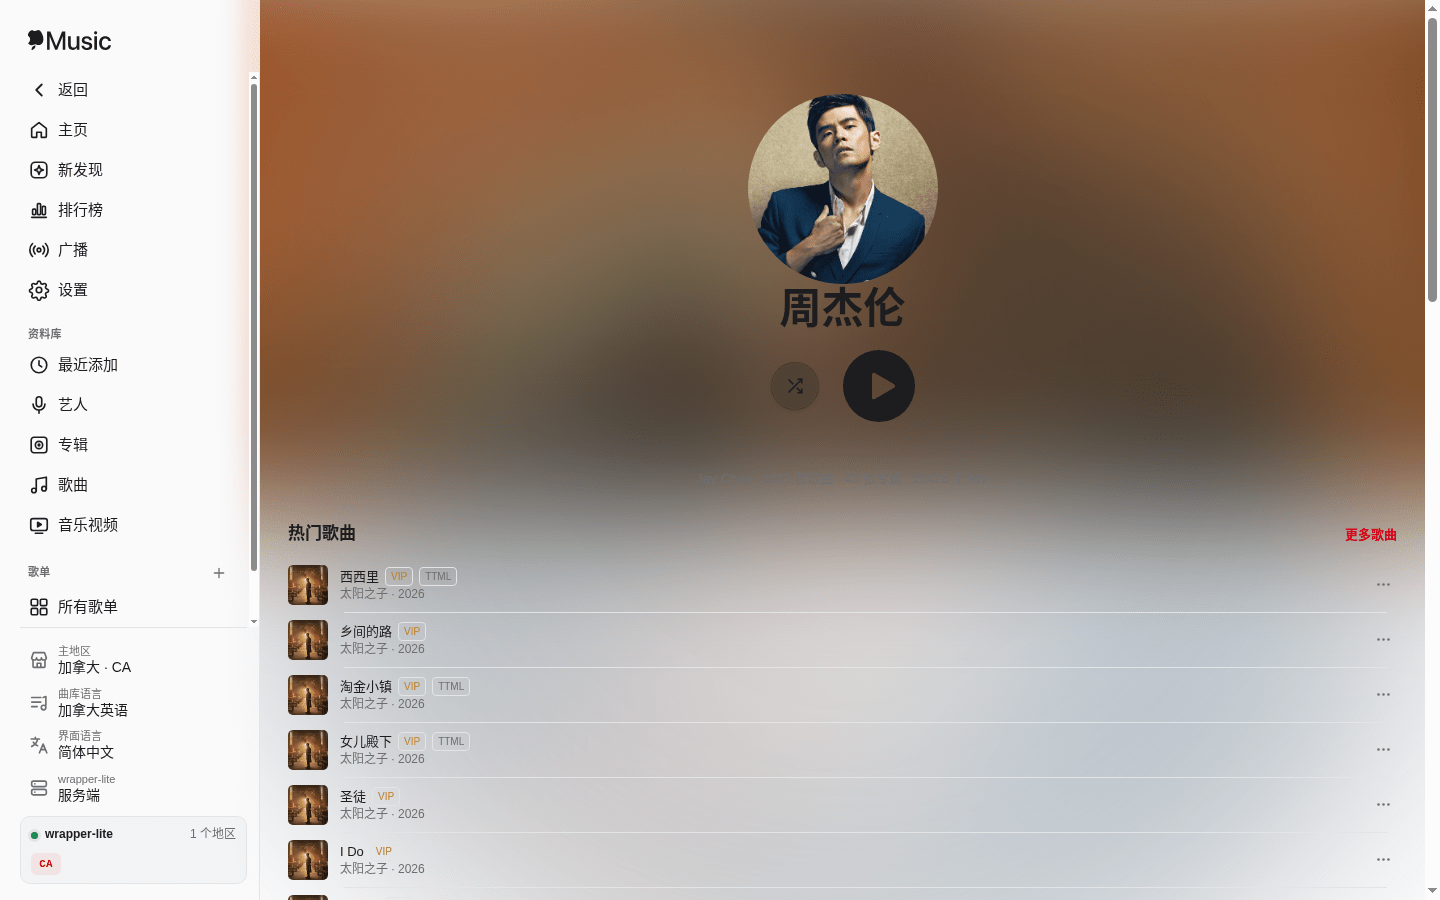
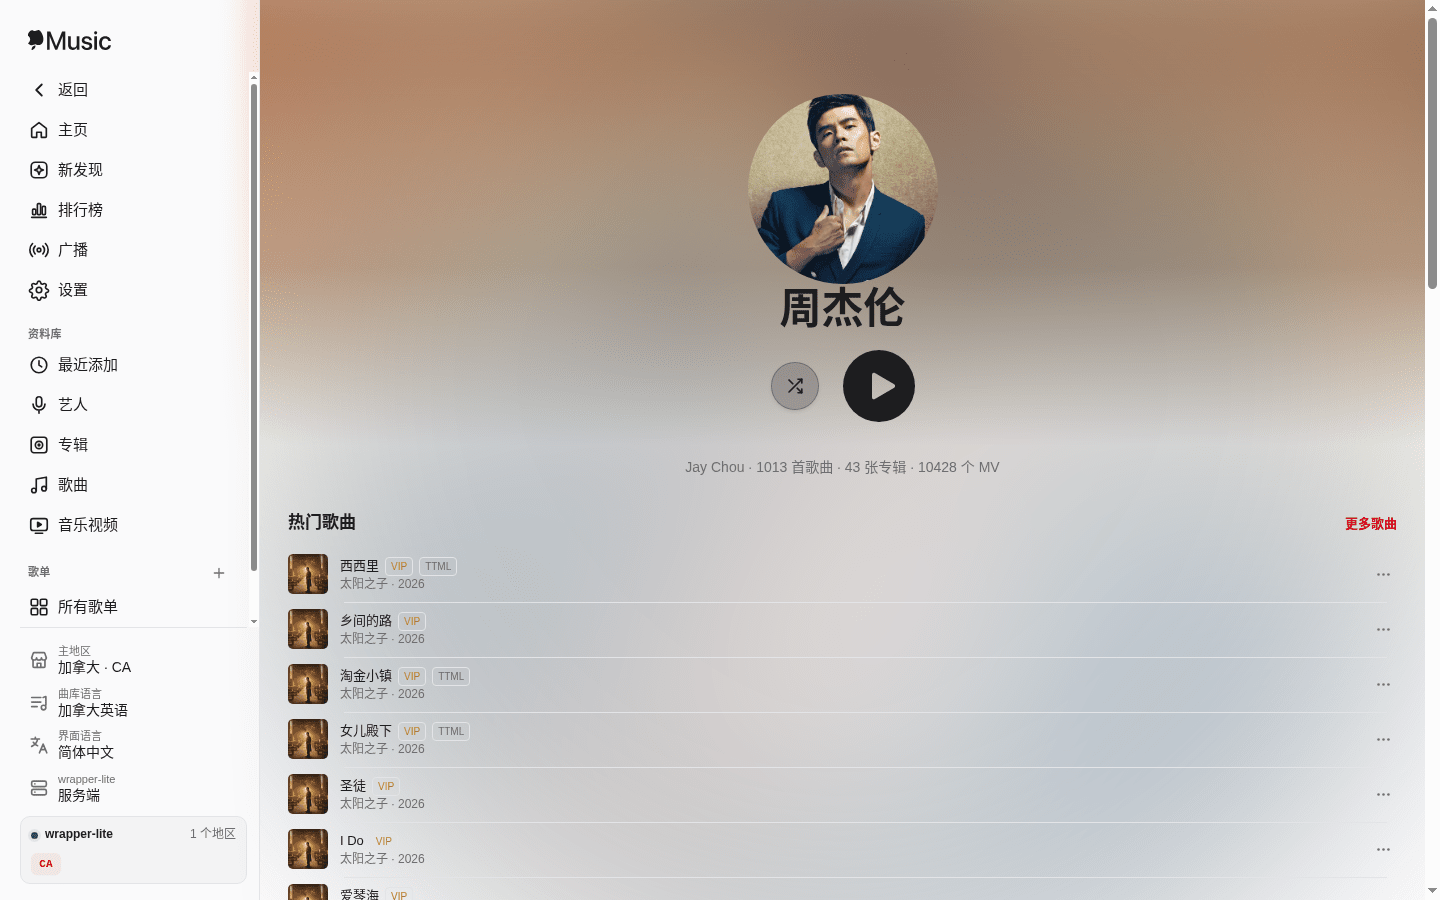
fix: 提升 QQ 歌手页头图与简介可读性

diff --git a/src/ui/views/qq-artist.css b/src/ui/views/qq-artist.css
@@ -5,9 +5,14 @@
   filter: blur(52px) saturate(1.15);
   transform: scale(1.3);
 }
-.qq-artist-page .qq-artist-counts { margin-top: 24px; color: var(--muted); font-size: 13px; text-align: center; }
-.qq-artist-page .qq-artist-bio { max-width: 640px; margin: 14px auto 0; white-space: pre-line; text-align: center; }
-.qq-artist-page .qq-artist-bio-text { -webkit-line-clamp: 3; }
+.qq-artist-page .artist-hero-art { overflow: hidden; }
+.qq-artist-page .artist-hero-art::after {
+  content: ""; position: absolute; inset: 0;
+  background: linear-gradient(color-mix(in srgb, var(--bg) 20%, transparent), color-mix(in srgb, var(--bg) 45%, transparent) 60%, var(--bg));
+}
+.qq-artist-page .qq-artist-counts { margin-top: 12px; color: var(--muted); font-size: 14px; text-align: center; }
+.qq-artist-page .qq-artist-bio { max-width: 760px; margin: 40px 0 0; text-align: left; color: var(--text); font-size: 15px; line-height: 1.7; }
+.qq-artist-page .qq-artist-bio-text { -webkit-line-clamp: 5; }
 .qq-artist-page .qq-artist-bio.expanded .qq-artist-bio-text { display: block; }
 .qq-artist-page .qq-artist-songs { margin-top: 32px; }
 .qq-artist-page .qq-artist-songs .shelf-head { margin-bottom: 0; }

diff --git a/src/ui/views/qq-artist.html b/src/ui/views/qq-artist.html
@@ -13,6 +13,7 @@
     <div id="shelves"></div>
     <div id="mv-shelf"></div>
     <div class="album-notes qq-artist-bio" id="bio" hidden>
+      <h2 class="shelf-heading" data-i18n="qq.intro"></h2>
       <p class="qq-artist-born" id="born" hidden></p>
       <p class="album-notes-text qq-artist-bio-text" id="bio-text"></p>
       <button class="album-notes-more" id="bio-more" type="button" hidden></button>
